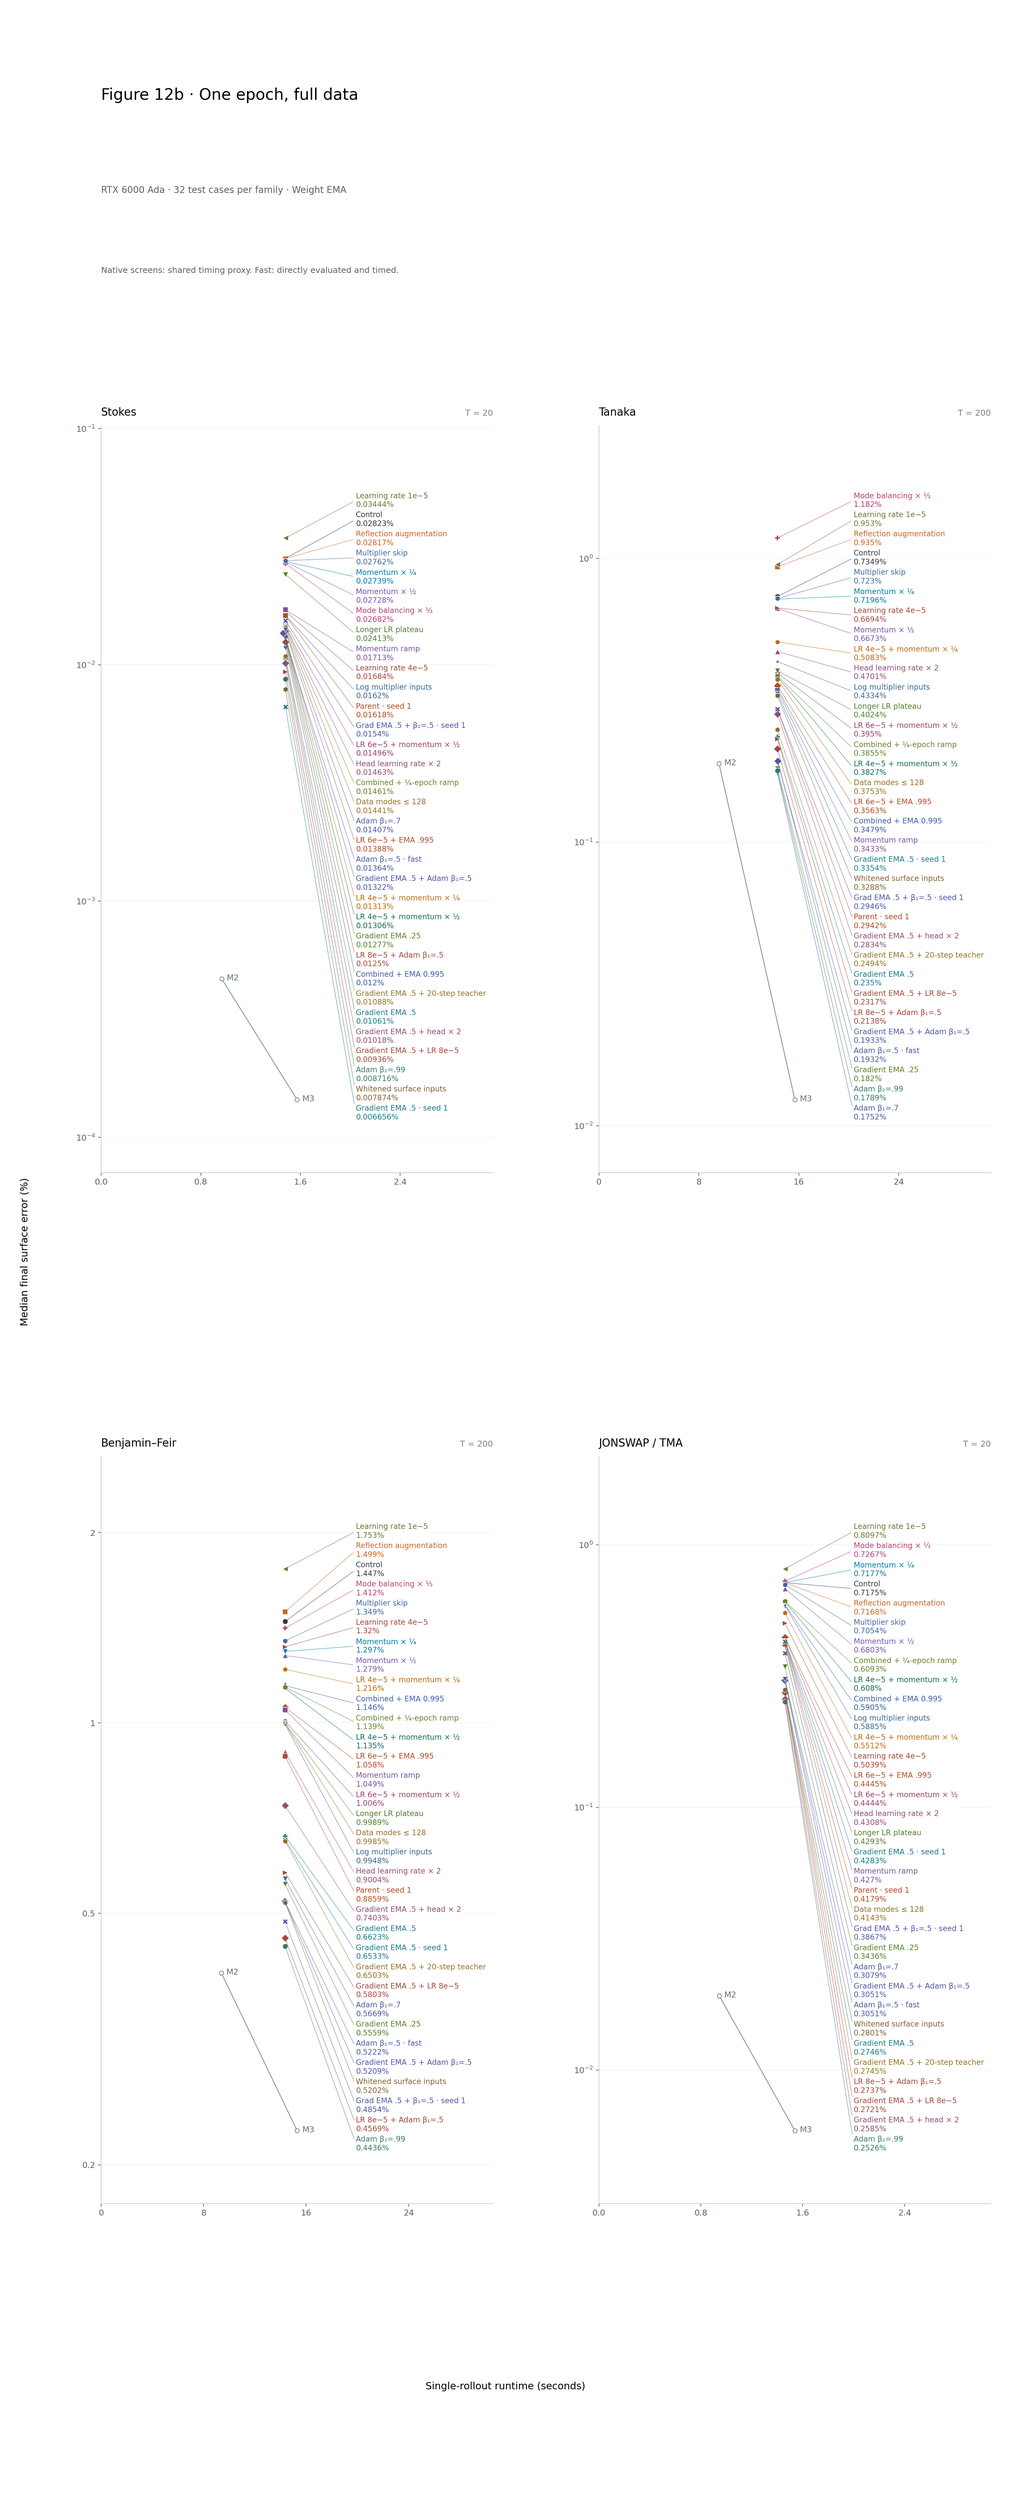
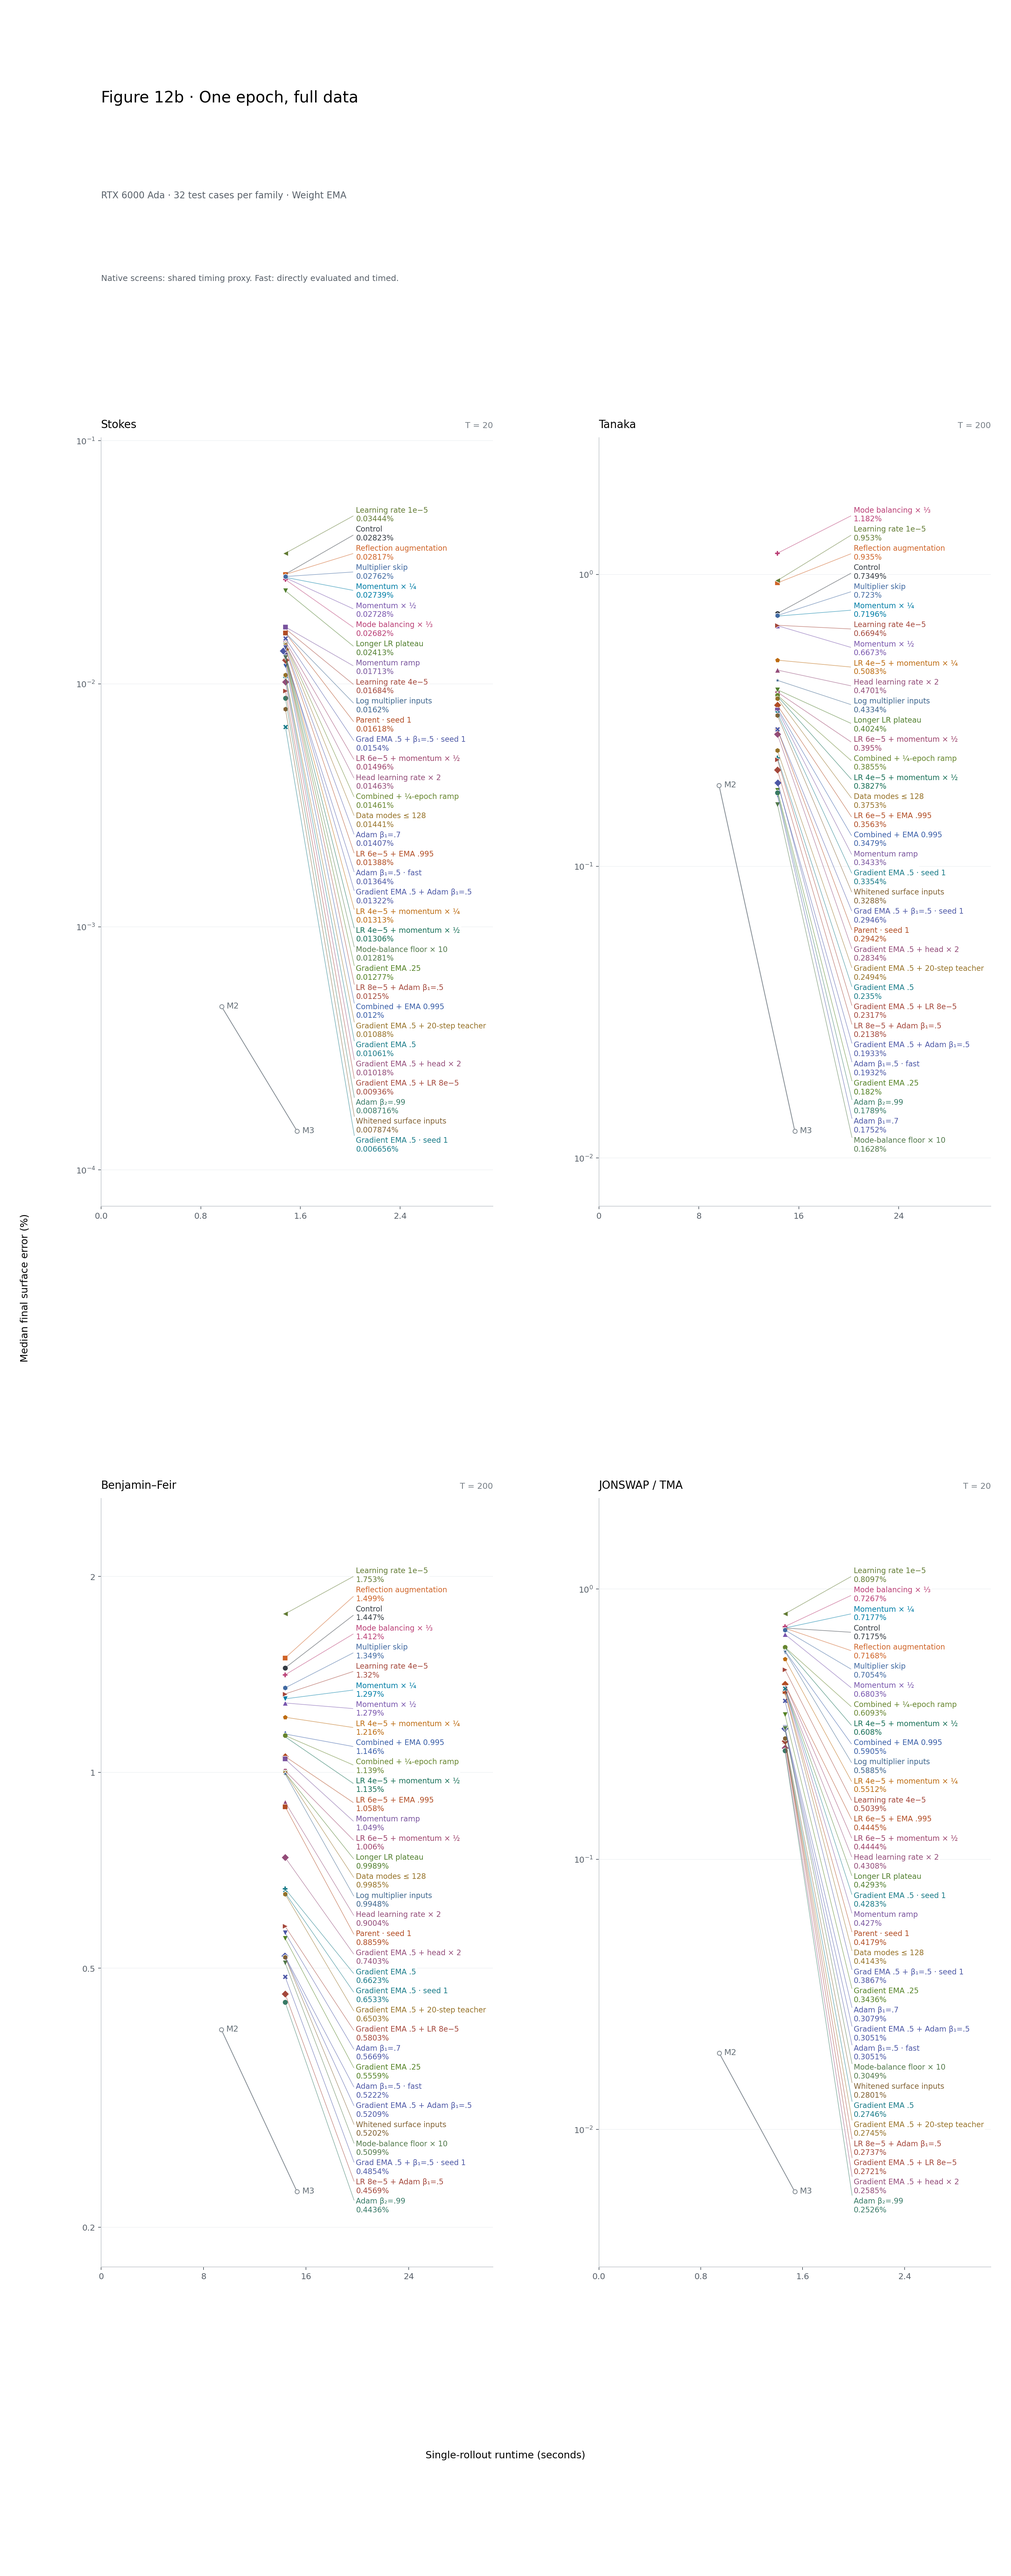
Record mode-balance floor results and refresh one-epoch comparison

diff --git a/experiments/experiments-2026-10-10.md b/experiments/experiments-2026-10-10.md
@@ -52,7 +52,7 @@
 | 2026-10-10 | 15:09 | Direct fast-predictor rollout accuracy and fresh latency | Native and optimized arithmetic do not meet the strict rollout-equivalence tolerance, so the deployment path needs its own M6 accuracy evaluation and timing before claiming the combined tradeoff. | Completed the actual fused Fourier/ept8/local-IFFT/spectral-state/packed-boundary predictor for the frozen LR6/Adam .5 weight-EMA checkpoint, all 128 original cases and 251 saved frames with cached M6 references. Fast median eta errors% [S,T,BF,J]=[.01364037,.19318820,.52221150,.30513989]; pooled geometric eta .14288660% versus native .14181532%, paired ratio 1.007554. Xi/phase ratios 1.002560/1.005244. Fresh full single-rollout median seconds from three warm repeats: [1.461954539,14.325979971,14.341165298,1.459838300]. Outputs are under eval_fast_weight_ema, with single_rollout_timings.json. | All 128 fast trajectories finite; timed cases retain positive fluid depth. First-case batch1 terminal errors agree with the same batch32 cases within 1.2e-10 relative. Direct M6 evaluation measures this implementation's accuracy; it does not waive failed strict native/fast equivalence. CPU routing/failure-metric tests and Ruff/Pyright/compilation checks pass. Native results remain unchanged. | Queued 15:09; ran 15:56–16:02 after the conditioning queue. Classical and neural timed case IDs match across all four families on RTX 6000 Ada. Local GPU0 only with 40% cap; GPU1/cloud untouched. Runtime values exclude compilation and are full single trajectories, not batch32 throughput. | COMPLETE. Figure12b adds distinct fast points only when all four direct fast-error summaries and fresh timings exist. Historical native-screen errors retain explicitly labeled shared architecture timing proxies; no silent replacement of native accuracy with fast timing. This verifies the frozen LR6 model, not the newer beta2 leader. |
 | 2026-10-10 | 15:13 | LR8/Adam.5 phase, local-DNO and physical-energy audit | Determine whether the modest new accuracy record reflects the targeted phase/local-state improvements and whether physical-energy behavior also improves. | Against LR6/Adam.5 on the original128 cases, LR8 gives paired geometric Fourier-phase ratio.92228 (86 wins), amplitude1.00148 (77 wins), and own-terminal-state P128 DNO ratio.92742 (97 wins). Absolute terminal M6 Hamiltonian-drift ratio.91457 has only63 wins; energy medians and p95 worsen across families, with JON median essentially flat. BF energy median/p95%.028591/.111032-to.033451/.124929, maximum.150866-to.189443; Tanaka energy p95.109493-to.227002 and phase p952.07444-to3.07869%. JON maximum energy drift.097909-to.258942%, ID3727676. | Same ordered IDs/times, all128 finite and no >25% eta failures. Phase/amplitude are exact Fourier-error component magnitudes; physical energy and own-state DNO use reference M6/P128 at each model's own predicted state, not learned-q energy or a same-input operator comparison. Aggregate geometric ratios do not establish improved medians or tails. | Logged15:13; CPU-only saved-rollout audit during beta2 training, no model restoration, source edits, new GPU work or inference timing. | Retain LR8 as a modest phase-led accuracy lead, not a universal winner or conservation improvement. Worse Tanaka phase/energy tails and generally worse energy quantiles remain explicit tradeoffs. |
 | 2026-10-10 | 15:22 | Paired uncertainty of the LR8/Adam .5 improvement | A 4.5% aggregate gain can be sensitive to which cases are evaluated; quantify this uncertainty before adding more optimizer changes. | For LR8/Adam .5 versus LR6/Adam .5 on the original 128 cases, 100,000 within-family paired bootstrap samples (RNG 20261010) give an eta geometric ratio of .955173 and 95% percentile interval [.88595, 1.03035]. Leave-one-family-out ratios excluding S/T/BF/J are [.93776, .94964, .95984, .97382]. BF/JON family intervals [.89725, .99342]/[.86396, .93978] favor LR8; Stokes/Tanaka intervals are wide and cross 1. Fourier-phase ratio .92228 has interval [.83416, 1.01500]. | Case-resampling uncertainty is conditional on these two fixed seed0 checkpoints. It is not training-seed variance, an untouched-test significance claim, or evidence that every family improves. Paired sampling retains case alignment and equal family counts. | Logged 15:22; CPU-only analysis of saved results, no new training, GPU work or inference timing. Existing beta2, whitening and fast-verification queues unchanged. | PROMISING BUT SMALL; replicate the matched recipe with another training seed before further optimizer knobs. No additional run queued by this diagnostic. |
-| 2026-10-10 | 15:26 | Larger mode-balancing denominator floor | Weak Fourier modes can receive substantial regularization gradients; a larger denominator floor may reduce their influence while preserving active-mode constraints, without another loss term or inference change. | Launched c27_phase1_lr6_momentum_half_ema995_grad05_adam05_mbfloor1e5_full_20261010. Sole change from frozen LR6/Adam .5 is --mode_balanced_denominator_eps 1e-5 instead of 1e-6; MB weight 6 and activity floor 1e-4 remain. CPU weighted-MB audits on two TRAIN samples (16/family, seed0; 32/family, seed1) show weak-mode gradient norms fall 37.9%/19.5%, active-mode norms 2.0%/1.5%. MB/data-gradient norm ratios .254-to-.242/.434-to-.392; cosine .169-to-.336/-.405-to-.406. | Actual config verified 16:04: only denominator floor changes functionally, with inactive beta2=.999/whitening=false defaults; fresh seed0, full splits, one epoch, LR6e-5, gradient EMA .5, weight EMA .995 and all other losses/teacher unchanged. Diagnostic weak modes satisfy A <= 1e-4 times sample maximum plus 1e-24 on modes 1–128, preserving full normalization. Actual packed original-row gradients before EMA/Adam, excluding Hadamard/generated terms, close within 5.5e-7; synthetic split within 1.2e-7. No claim of uniform dominance or alignment. | Queued 15:26; started 16:03 after successful fast verification and idle GPU0, trainer PID1325081. Tmux dno-frontier-mbfloor-gpu0-20261010, log outputs/frontier_mb_floor_queue_20261010.log. Full-data one epoch then 128 EMA-only rollouts, local GPU0 with 40% cap, GPU1/cloud untouched. No accuracy or completion result yet. | RUNNING isolated screen, not default promotion. CPU gradients motivate the floor but cannot establish better rollout accuracy. Beta2 confirmation remains queued afterward. |
+| 2026-10-10 | 15:26 | Larger mode-balancing denominator floor | Weak Fourier modes can receive substantial regularization gradients; a larger denominator floor may reduce their influence while preserving active-mode constraints, without another loss term or inference change. | Completed c27_phase1_lr6_momentum_half_ema995_grad05_adam05_mbfloor1e5_full_20261010; only denominator epsilon 1e-6-to-1e-5 changes from frozen LR6/Adam .5, retaining MB weight 6/activity floor 1e-4. EMA median eta errors% [S,T,BF,J]=[.01281444,.16284412,.50985494,.30492635], p95=[.11236184,1.82631353,1.11182640,3.61892997]. Versus base: eta ratio .936931 with 77/128 wins, xi .944026 with 70 wins; family eta ratios [.98981,.80858,.98166,.98083]. Pooled eta .13287116%; versus beta2 leader eta 1.045202 with 56 wins, xi 1.023571 with 55 wins. Phase/amplitude ratios versus base .922233/1.014118, Tanaka phase .781242 and Stokes amplitude 1.12498. Physical M6 absolute energy-drift ratios .908304 versus base (66 wins) and .996383 versus beta2 (67 wins); maximum .33167% on Tanaka 3686647. | Verified fresh seed0, full splits, one epoch, both EMAs and all other losses/teacher unchanged. All 128 finite/reference-valid, exact ordered IDs/depths/times/reference-final states, no >25% eta failures; worst eta Tanaka 6.04786%, JON 8.07263%. Energy uses fresh FP64 M6/pad8/P128 at own initial/final states, oracle agreement 1.60e-12, not learned-q energy. Prior two TRAIN gradient probes found weak-mode norms fall 37.9%/19.5% versus active 2.0%/1.5%, with original normalization and decomposition error <=5.5e-7; not a claim of uniform harmful gradient opposition. Raw validation L2 .0004799788. | Queued 15:26; GPU0 training and EMA rollouts 16:03–16:25 in dno-frontier-mbfloor-gpu0-20261010, log outputs/frontier_mb_floor_queue_20261010.log. Forty-percent cap; GPU1/cloud untouched, no new inference timing. Figure12b refreshed by the queue. Beta2 fast verification began 16:26 afterward. | COMPLETE, MODEST LEAD OVER ITS BASE, NOT A NEW RECORD. Universal floor change yields a mostly Tanaka phase gain, with only ~1–2% paired gains elsewhere and slightly worse pooled amplitude. Keep beta2 .99 as the observed one-epoch leader; no automatic combination or default promotion. |
 | 2026-10-10 | 15:35 | Beta2 .99 phase, physical-energy and uncertainty check | Check whether the new one-epoch surface-error lead improves phase/profile accuracy and conservation, and how sensitive the aggregate is to case selection. | Against LR6/Adam .5, paired ratios are eta .896411, xi .922287, phase .866455, amplitude .932818 and absolute terminal M6 energy drift .911601. BF energy median/p95% improve .02859/.11103-to-.02158/.09199; JON worsen .00696/.05637-to-.01055/.08712, paired energy 1.24289, worst drift .229775% at case 3727676. Tanaka eta p95 rises 2.199-to-2.701%. Against LR8/Adam .5, eta/phase/amplitude/energy ratios are .938480/.93947/.93144/.996757; JON eta/energy worsen to 1.08619/1.49149. With 100,000 within-family paired bootstraps (RNG 20261010), eta 95% intervals are [.812733,.984999] versus LR6 and [.835523,1.049171] versus LR8. Leave-family-out ratios versus LR6, excluding S/T/BF/J: [.921479,.903153,.891334,.870446]. JON versus LR8 has interval [1.02500,1.15233] and only 9/32 wins despite its better median. | All 128 saved trajectories finite with positive own-state fluid depth and exact paired IDs/depths/times. Fourier components are magnitudes, not error fractions. Physical energy uses FP64 M6/pad8/P128 at each model's own initial/final states, not learned-q energy. Bootstrap uncertainty is conditional on fixed checkpoints and cases, not training-seed replication or untouched-test significance. | Logged 15:35; CPU-only saved-state audit, no file changes by the audit, model restores, GPU launches or new inference timing. Whitening continues unchanged. | Modest new one-epoch lead, not uniform tail/conservation improvement. Prioritize matched-seed beta2 .99 versus .999 replication after existing checks, rather than another optimizer knob; no replica queued yet. |
 | 2026-10-10 | 15:40 | Beta2 .99 deployed-inference and second-seed confirmation | The best observed one-epoch result improves the fixed-case aggregate but has mixed tails; test the actual fast deployment path and replicate the isolated optimizer change with another initialization seed. | Queued direct fast-predictor evaluation of the seed0 beta2 .99 candidate on all 128 weight-EMA cases, followed by four-family full single-rollout timings with three warm repeats, under its eval_fast_weight_ema directory. Then train c27_phase1_lr6_momentum_half_ema995_grad05_adam05_b2099_seed1_full_20261010 fresh: seed1, full train/validation, exactly one epoch, LR6e-5, gradient EMA .5, Adam beta1 .5, weight EMA .995 and all losses/10-step teacher unchanged; only beta2 .999-to-.99 differs from the existing matched seed1 control. | Root verified the completed seed1 beta2 .999 control has matching functional configuration and evaluation cases, so no redundant control retraining. Existing training/verification queues and native evaluator remain unchanged. No deployed accuracy, timing or replica result yet. | Queued 15:40 in waiting tmux dno-frontier-beta2-confirm-gpu0-20261010, log outputs/frontier_beta2_confirmation_queue_20261010.log. Waits for the existing MB-floor queue to finish and GPU0 to be idle. Local GPU0 only with 40% cap; GPU1/cloud untouched. | QUEUED confirmation, not another optimizer search. Promote only if the matched-seed evidence supports transfer; keep native and fast-path accuracy/timing results distinct. |
 | 2026-10-10 | 16:14 | Oracle projection onto the existing 32 branch outputs | Test whether current local DNO errors lie outside existing branch-output directions before expanding model capacity. | CPU-only comparison of the 120-epoch RMS/context model and one-epoch beta2 .99 checkpoint on identical 16 TRAIN and 16 VAL rows per family, seed1010. Project physical P128 residual r=stored M6 minus true-depth FP64 M1 onto 32 branch columns B using column-normalized SVD. At rcond 1e-4, VAL oracle/current error-norm ratios [S,T,BF,J] are [.01978,.17323,.44937,.50564] for RMS/context and [.01119,.07964,.33250,.40555] for beta2. Lowering rcond to 1e-6 barely changes errors, but beta2 Stokes median coefficient RMS grows 18.90-to-225.94 and p95 193.07-to-8488.43. At 1e-4, beta2 T/BF/J median coefficient RMS is 5.62/4.37/3.57; current coefficients all equal 1. | Sum of branch columns reconstructs the captured learned correction within 9.90e-6 relative on Stokes and 6.49e-7 on other families. Current error is r minus B times ones; native baseline/output subtraction rounding, at most 5.87e-8 of full q, is excluded. Oracle coefficients depend on each input, xi and target: an optimistic 32-direction projection, not deployable shared fitting or the full 5120-parameter head span. | Logged 16:14; CPU-only, no files or parameter changes by the audit, GPU work or additional training. Existing MB-floor and beta2-confirmation queues unchanged. | Diagnostic headroom exists, but ill-conditioned cancellations make unconstrained gain calibration unsafe. Do not infer optimization is the sole cause or promote another trial from this oracle; retain as evidence for later architecture analysis. |
